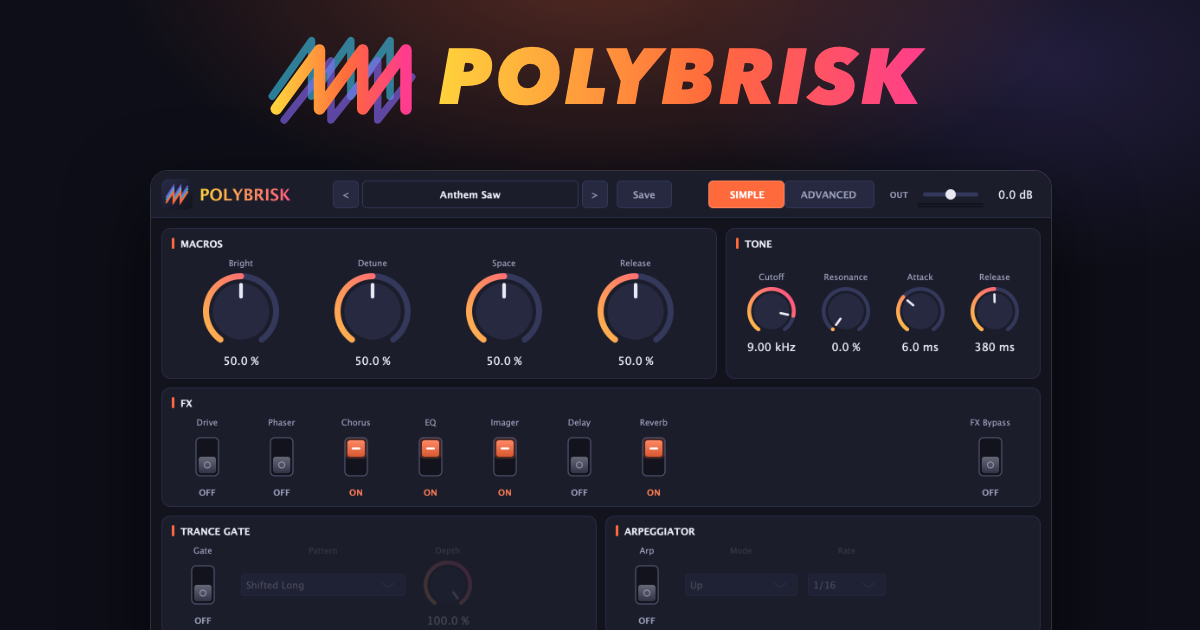
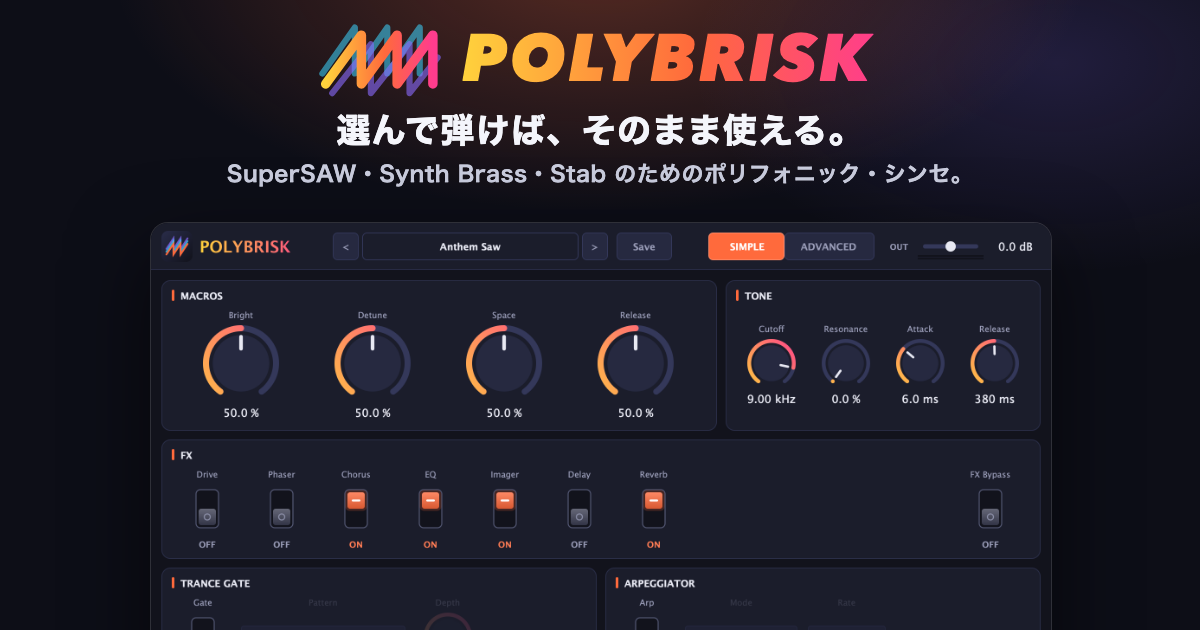
Phase 7: OGP の画像と説明文にキャッチコピーを入れる
- 画像のロゴの下に「選んで弾けば、そのまま使える。」と
  「SuperSAW・Synth Brass・Stab のためのポリフォニック・シンセ。」を追加
- og:description / twitter:description も同じ文で始まるようにした

テスト: コードの変更なし。画像（1200×630）の見た目を確認。
未確認: 実際の SNS やチャットでの表示。

diff --git a/site/index.html b/site/index.html
@@ -6,18 +6,18 @@
 <title>POLYBRISK — SuperSAW / Synth Brass / Stab のためのポリフォニック・シンセ</title>
 <meta name="description" content="POLYBRISK は、SuperSAW・Synth Brass・Stab のための macOS 用ポリフォニック・シンセサイザー（VST3 / Audio Unit / Standalone）です。音色を選んで、4 つのノブで曲に合わせれば、すぐに使えます。128 のプリセット入り、無料。">
 <meta property="og:title" content="POLYBRISK — SuperSAW / Synth Brass / Stab のためのポリフォニック・シンセ">
-<meta property="og:description" content="選んで弾けば、そのまま使える。SuperSAW・Synth Brass・Stab のための macOS 用シンセ。128 のプリセット入り、無料。">
+<meta property="og:description" content="選んで弾けば、そのまま使える。SuperSAW・Synth Brass・Stab のためのポリフォニック・シンセ。macOS 用、128 のプリセット入り、無料。">
 <meta property="og:image" content="https://cheebow.github.io/POLYBRISK/assets/og.png">
 <meta property="og:image:width" content="1200">
 <meta property="og:image:height" content="630">
-<meta property="og:image:alt" content="POLYBRISK の Simple 画面">
+<meta property="og:image:alt" content="選んで弾けば、そのまま使える。POLYBRISK のロゴと Simple の画面">
 <meta property="og:type" content="website">
 <meta property="og:url" content="https://cheebow.github.io/POLYBRISK/">
 <meta property="og:site_name" content="POLYBRISK">
 <meta property="og:locale" content="ja_JP">
 <meta name="twitter:card" content="summary_large_image">
 <meta name="twitter:title" content="POLYBRISK — SuperSAW / Synth Brass / Stab のためのポリフォニック・シンセ">
-<meta name="twitter:description" content="選んで弾けば、そのまま使える。SuperSAW・Synth Brass・Stab のための macOS 用シンセ。128 のプリセット入り、無料。">
+<meta name="twitter:description" content="選んで弾けば、そのまま使える。SuperSAW・Synth Brass・Stab のためのポリフォニック・シンセ。macOS 用、128 のプリセット入り、無料。">
 <meta name="twitter:image" content="https://cheebow.github.io/POLYBRISK/assets/og.png">
 <link rel="canonical" href="https://cheebow.github.io/POLYBRISK/">
 <link rel="icon" type="image/svg+xml" href="assets/icon.svg">

diff --git a/tools/og_image.html b/tools/og_image.html
@@ -9,15 +9,21 @@
       #0d0e17;
     font-family: "Avenir Next", "Helvetica Neue", Arial, sans-serif;
   }
-  .brand { position: absolute; top: 34px; left: 0; width: 1200px; display: flex; align-items: center; justify-content: center; gap: 22px; }
-  .brand svg { width: 150px; height: auto; }
+  .brand { position: absolute; top: 22px; left: 0; width: 1200px; display: flex; align-items: center; justify-content: center; gap: 20px; }
+  .brand svg { width: 124px; height: auto; }
   .brand span {
-    font-size: 78px; font-weight: 800; font-style: italic; letter-spacing: 0.05em; line-height: 1;
+    font-size: 66px; font-weight: 800; font-style: italic; letter-spacing: 0.05em; line-height: 1;
     background: linear-gradient(90deg, #ffd23c, #ff6a3c 55%, #ff3c8e); -webkit-background-clip: text; background-clip: text; color: transparent;
     padding-right: 10px;
   }
+  .tagline {
+    position: absolute; top: 108px; left: 0; width: 1200px; text-align: center; color: #f4f5fb;
+    font-family: "Hiragino Sans", "Hiragino Kaku Gothic ProN", "Avenir Next", sans-serif;
+  }
+  .tagline b { display: block; font-size: 34px; font-weight: 700; letter-spacing: 0.04em; line-height: 1.3; }
+  .tagline span { display: block; margin-top: 6px; font-size: 22px; font-weight: 600; color: #c9ccdd; letter-spacing: 0.02em; }
   .shot {
-    position: absolute; top: 170px; left: 150px; width: 900px; height: 520px; overflow: hidden;
+    position: absolute; top: 222px; left: 150px; width: 900px; height: 520px; overflow: hidden;
     border-radius: 18px 18px 0 0; border: 1px solid rgba(255, 255, 255, 0.14); border-bottom: 0;
     box-shadow: 0 30px 80px rgba(0, 0, 0, 0.55);
   }
@@ -39,5 +45,6 @@
     </defs>
   </svg>
   <div class="brand"><svg viewBox="0 0 680 420"><use href="#pb-mark"/></svg><span>POLYBRISK</span></div>
+  <div class="tagline"><b>選んで弾けば、そのまま使える。</b><span>SuperSAW・Synth Brass・Stab のためのポリフォニック・シンセ。</span></div>
   <div class="shot"><img src="../site/assets/screens/polybrisk_simple.png" alt=""></div>
 </body></html>

diff --git a/docs/DECISIONS.md b/docs/DECISIONS.md
@@ -1137,5 +1137,6 @@ Pad / Strings は既存の音色を移しただけだったので、新しい音
 - **経緯**: ユーザーの質問「ogp ってあるんだっけ？」。製品ページには OGP のタグがなかった（FXtend のページにはある）。
 - **決定**: FXtend のページと同じ項目を入れる: `og:title`、`og:description`、`og:image`（1200×630）、`og:url`、`og:type`、`og:site_name`、`og:locale`、X（Twitter）用の `twitter:card`（`summary_large_image`）ほか、`canonical`。あわせて、検索結果に出る説明文（`description`）を、いまの製品ページの言い回しに合わせて直した。
 - **画像**: `site/assets/og.png`。ロゴとワードマークの下に、Simple の画面を置いた（FXtend の画像と同じ構成）。`scripts/make_og_image.sh` が、`tools/og_image.html` を Google Chrome のヘッドレスモードで PNG にする。画面の見た目を変えたら、画面画像を更新してから作り直す。
+- **追記（同日、ユーザーの希望）**: 画像に、キャッチコピー「選んで弾けば、そのまま使える。」と「SuperSAW・Synth Brass・Stab のためのポリフォニック・シンセ。」の 2 行を入れた（ロゴの下。そのぶんロゴを少し小さくし、画面の画像を下げた）。説明文（`og:description`）も、同じ文で始まるようにした。
 - **未確認**: 実際の SNS やチャットでの表示（公開後に、各サービスがページを読みに来て初めて確かめられる）。
 
